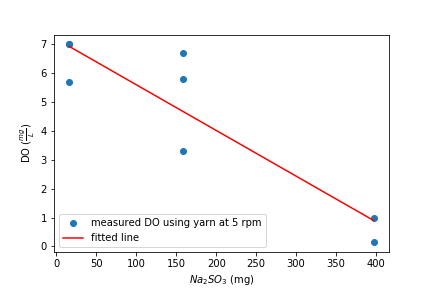
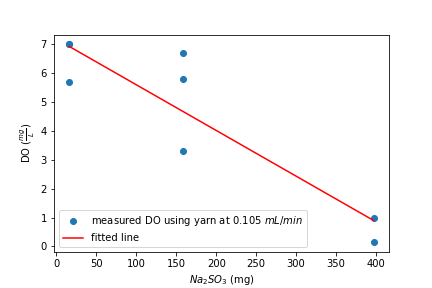
HRT graphs for monroe

Changed region(s): [[0.1204, 0.7188, 0.7222, 0.8125], [0.6319, 0.8438, 0.7222, 0.875]]

diff --git a/Final Project/Group 1 Final Project.md b/Final Project/Group 1 Final Project.md
@@ -3,20 +3,83 @@
 ##### May 13th 2019
 
 ## Introduction and Objectives
-to create a plant that is optimized for low cost and a high performance, and looking at the regions a future wastewater plant would serve, trickling filters are a promising technology due to their low-energy requirements
 
+Strings could provide an alternative "filter media" for a modified trickling filter in a wastewater treatment system. Trickling filters are a technology that have not been improved significantly since the 1970s or 80s, and there is great room for improvement of the efficiency of treatment and use of space by improving the design. There is a team of students at Cornell on AguaClara working on the development of a string digester for secondary wastewater treatment, which could potentially offer huge increases in energy and treatment efficiency. This design features wastewater being treated by biofilm as it trickles down string, in a design that would feature hundreds to thousands of strings hanging millimeters apart, each treating a trickle of wastewater.
 
-A trickling filter is a secondary wastewater treatment system that removes organic matter from the wastewater through biological means, and is crucial for the removal of harmful pathogens. Looking to improve on the traditional industrial-scale trickling filter design, previous work identified an issue with the process: there is a substantial amount of unused space in the trickling treatment unit due to the uneven flow of wastewater across the system (preferential flow). The primary objective of this sub-team is to continue to develop a novel design for a highly efficient trickling filter with a minimized footprint in terms of space.
-
+The development of this project is still a work in progress, and key components of the design have yet to be verified. One aspect of the design that required experimentation to confirm proof of concept was the question of whether there would be enough oxygen available to the wastewater on the string to allow for proper treatment. This lab experiment was designed with the objective of determining whether aeration occurs as the water trickles down the string and how variables like the type of string and flow rate might impact the degree of aeration. The availability of oxygen is necessary in order for treatment to occur, so we needed to verify that aeration occurs for the current design of a string digester to be possible.
 
 
 ## Procedures
+#### Apparatus
+The experimental apparatus consists of a metal rod, microtubing, string (or yarn), small effluent collector, peristaltic pump, and deoxygenated solution (Fig. 1).
 
+![schematic](https://github.com/rosiekrasnoff/CEE4530/blob/master/Final%20Project/schematic.PNG?raw=true)
+Figure 1. Schematic of string aeration experiment.
+
+1. Step up experiment as shown in Figure 1. Use a peristaltic pump installed with a microtubing head.
+2. Cut an excess of microtubing and stretch one of the edges to be thin enough to go through the tabs for the peristaltic pump. Prepare the microtubing as is typical and install it into the peristaltic pump.
+3. The purpose of the metal rod is to have access to the ceiling so make sure to obtain one that's long enough so that you can hook it onto the ceiling, but not too long that it will make the string too short.
+4. Cut the string/yarn to be approximately an inch off the lab table once connected to the metal rod.
+5. Tie the string/yarn onto the metal rod and hook it to the ceiling before moving further to make sure it's at a good length.
+6. Carefully position and tape the microtubing to the string/yarn so that each droplet will fall directly onto said string/yarn. This is important since we're testing the aeration potential of a string digester and don't want the water droplets to fall directly into the effluent collector.
+7. Hang the metal rod-string/yarn-microtubing apparatus onto the ceiling.
+
+#### Dissolved Oxygen Probe
+1. Install the membrane cap on the Dissolved Oxygen Probe. You can refer to the [textbook](https://monroews.github.io/EnvEngLabTextbook/Gas_Transfer/Gas_Transfer.html#install-the-membrane-cap-on-the-dissolved-oxygen-probe).
+2. Calibrate the DO Probe by referring to the [textbook](https://monroews.github.io/EnvEngLabTextbook/ProCoDA/ProCoDA.html#dissolved-oxygen-sensor-do).
+3. Store the probe in a beaker with distilled water while running the trials.
+4. The probe does not need to be calibrated again for the rest of the experimental period unless the probe readings seem to be off. The membrane cap should be dried after every experiment day and reinstalled before every experiment day.
+
+#### Experimental Method
+Test aeration potential for both the string and yarn at varying rpms with varying amounts of $Na_{2}SO_3$.
+1. Set up the apparatus,
+2. Make the deoxygenated solution by filling a 100 mL beaker with 1000 $u$L of the stock 0.1 $\frac{mg}{mL}$ $CoCl_2$ solution and the rest with distilled water then adding the appropriate amount of $Na_{2}SO_3$.
+3. Pump the deoxygenated solution at a high rpm (between 50 and 100) to wet the string/yarn. The water won't trickle down properly if the string/yarn isn't wetted. Do this for about 5 minutes. Use a different beaker than the designated effluent collector to collect the water.
+4. Lower the rpm to the testing pumping rate and let it run for 10 minutes at this lower rpm to allow for the flow rate to reach an stable state.
+5. After running it for about 10 minutes, start the actual collection with the effluent collector until you have about 2 mL to make an accurate DO measurement.
+6. Measure the DO using the DO probe. Make sure to slightly wiggle the probe around because the DO probe tends to consume oxygen as it runs so it's important that you don't let it sit in one spot for too long as the dissolved oxygen level will fall and give an inaccurate reading.
+7. Repeat each trial at least twice.
+8. Note that the deoxygenated solution will need to be remade every time you run the experiment. The solution can simply be dumped down the sink at the end of each experiment day since the $CoCl_2$ is diluted to such a low concentration.
 
 
 ## Results and Discussion
 ### Data Analysis
 
+*add tables*
+Table 1. Constant flow rate of 5rpm.
+|COD (from Na2SO3 in 100 mL water) | DO for flat string (mg/L) | DO for loopy yarn (mg/L) |
+| ----- | ------- | ---------- |
+|**20 mg/L** (from 0.016 g Na2SO3)| 7.2 6.7 | 5.7, 7.0, 7.0  |
+|**200 mg/L** (from 0.158 g Na2SO3)| 2.1, 5, 4.1 |3.3, 5.8, 6.7 |
+|**503 mg/L** (from 0.397 g Na2SO3)| 0.3 | 0.15, 1.0|
+
+Table 2. Constant COD of **200 mg/L** (from 0.158 g Na2SO3)
+
+| Flow rate | DO for flat string (mg/L) | DO for loopy yarn (mg/L) |
+| ----- | ------- | ---------- |
+|5 rpm | 2.1, 5, 4.1 | 5.8, 6.7  |
+|20 rpm | 2.1, 2, 0.3 | 5.6, 5.05, 4.9, 4.5 |
+|50 rpm | 0.2, 0.3 | 0.5, 1.2, 1, 0 |
+
+
+
+
+
+
+![string_5rpm](https://github.com/rosiekrasnoff/CEE4530/blob/master/Final%20Project/string_at_5rpm.png?raw=true)
+
+Figure 1. Independent variable: COD (from Na2SO3 added)
+Constant: Flow rate = 5rpm (0.1 mL/min)
+
+
+## Conclusion
+
+## Suggestions/Comments
+
+We faced a lot of issues with using the DO probe. Unfortunately, low flow rate and DO probe consumption of oxygen made taking a DO reading difficult. Ideally, we would have the outflow actively flowing over a DO probe continuously to be able to have constant measurements, but that isn’t possible because our flow rate needs to be quite slow and we're measuring in a very small container with a limited amount of volume (~ 2 mL). Even with our "wiggle" method, the DO probe would continue to consume oxygen so we were never sure that our measurements were accurate. Thus, in the future, we would recommend getting micro DO probes. Additionally, our string digester would often dry up during a trial due to evaporation, especially when running at slower flow rates, due to lab environment. Moving forward, we would suggest running the experiment in a setting more similar to the real world in regards to humidity levels.
+
+
+# Appendix
 ``` python
 from aguaclara.core.units import unit_registry as u
 import aguaclara.research.environmental_processes_analysis as epa
@@ -118,14 +181,51 @@ plt.legend()
 plt.savefig('C:/Users/Jiwon Lee/github/rosie/Final Project/both_at_rpms.png')
 plt.show()
 
+# DO vs HRT for string
+String_V = 0.77*u.mL
+FR_string = np.array([.105,.105,.105,.420,.420,.420,1.05,1.05])*u.mL/u.min
+HRT = String_V/FR_string
+plt.plot(HRT, DO_string, 'og', label='string')
+plt.xlabel(r'HRT ($\theta$)');
+plt.ylabel(r'DO ($\frac{mg}{L}$)');
+plt.title('HRT vs DO of Flat String')
+plt.savefig('C:/Users/Jiwon Lee/github/rosie/Final Project/stringHRT.png')
+plt.show()
+
+# DO vs HRT for yarn
+Yarn_V = 1.858*u.mL
+FR_yarn = np.array([.105,.105,.420,.420,.420,.420, 1.05, 1.05, 1.05,1.05])*u.mL/u.min
+HRT_yarn = Yarn_V/FR_yarn
+plt.plot(HRT_yarn, DO_yarn, 'ob', label='yarn')
+plt.xlabel(r'HRT $\theta$');
+plt.ylabel(r'DO ($\frac{mg}{L}$)');
+plt.title('HRT vs DO of Loopy Yarn')
+plt.savefig('C:/Users/Jiwon Lee/github/rosie/Final Project/yarnHRT.png')
+plt.show()
+
+#calculate COD from amount of Na2SO3 added
+from aguaclara.core.units import unit_registry as u
+import aguaclara.research.environmental_processes_analysis as epa
+import aguaclara.core.utility as ut
+from scipy import optimize
+import numpy as np
+import matplotlib.pyplot as plt
+import pandas as pd
+from scipy import stats
+
+mass_NA2SO3=0.158*u.g
+
+#convert from mg O2 to mg NA2SO3
+conv=7.897
+
+
+COD=mass_NA2SO3/(100*u.mL)/conv
+COD
+COD.to(u.mg/u.L)
+
+print('Mass to add to 100 mL:',mass_NA2SO3.to(u.g/u.mL)*100*u.mL)
+
 
 
 
 ```
-
-
-## Conclusion
-
-## Suggestions/Comments
-
-# Appendix
